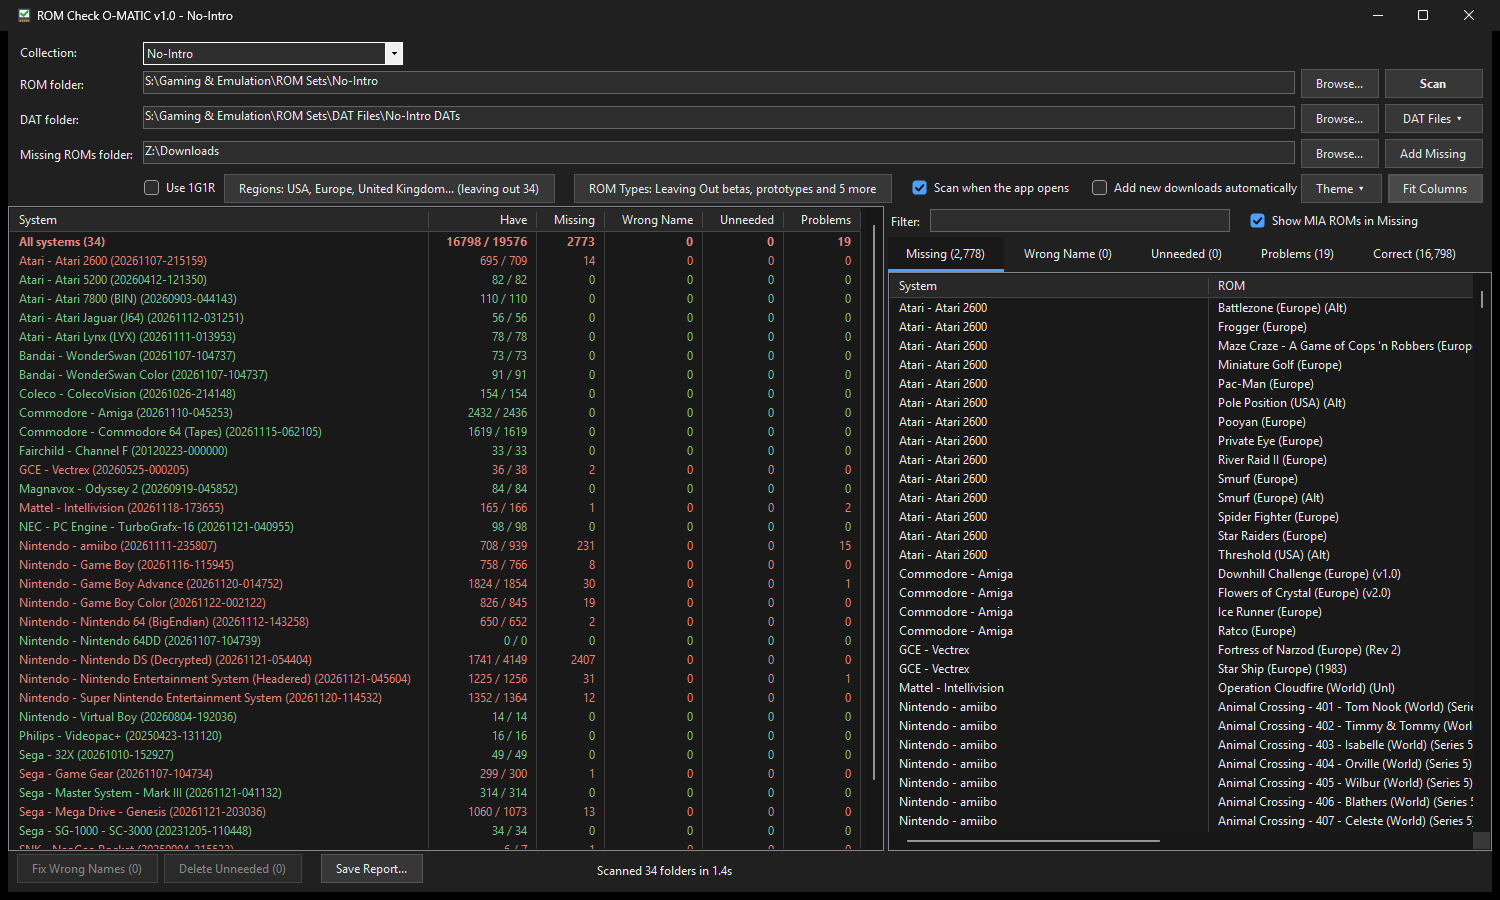
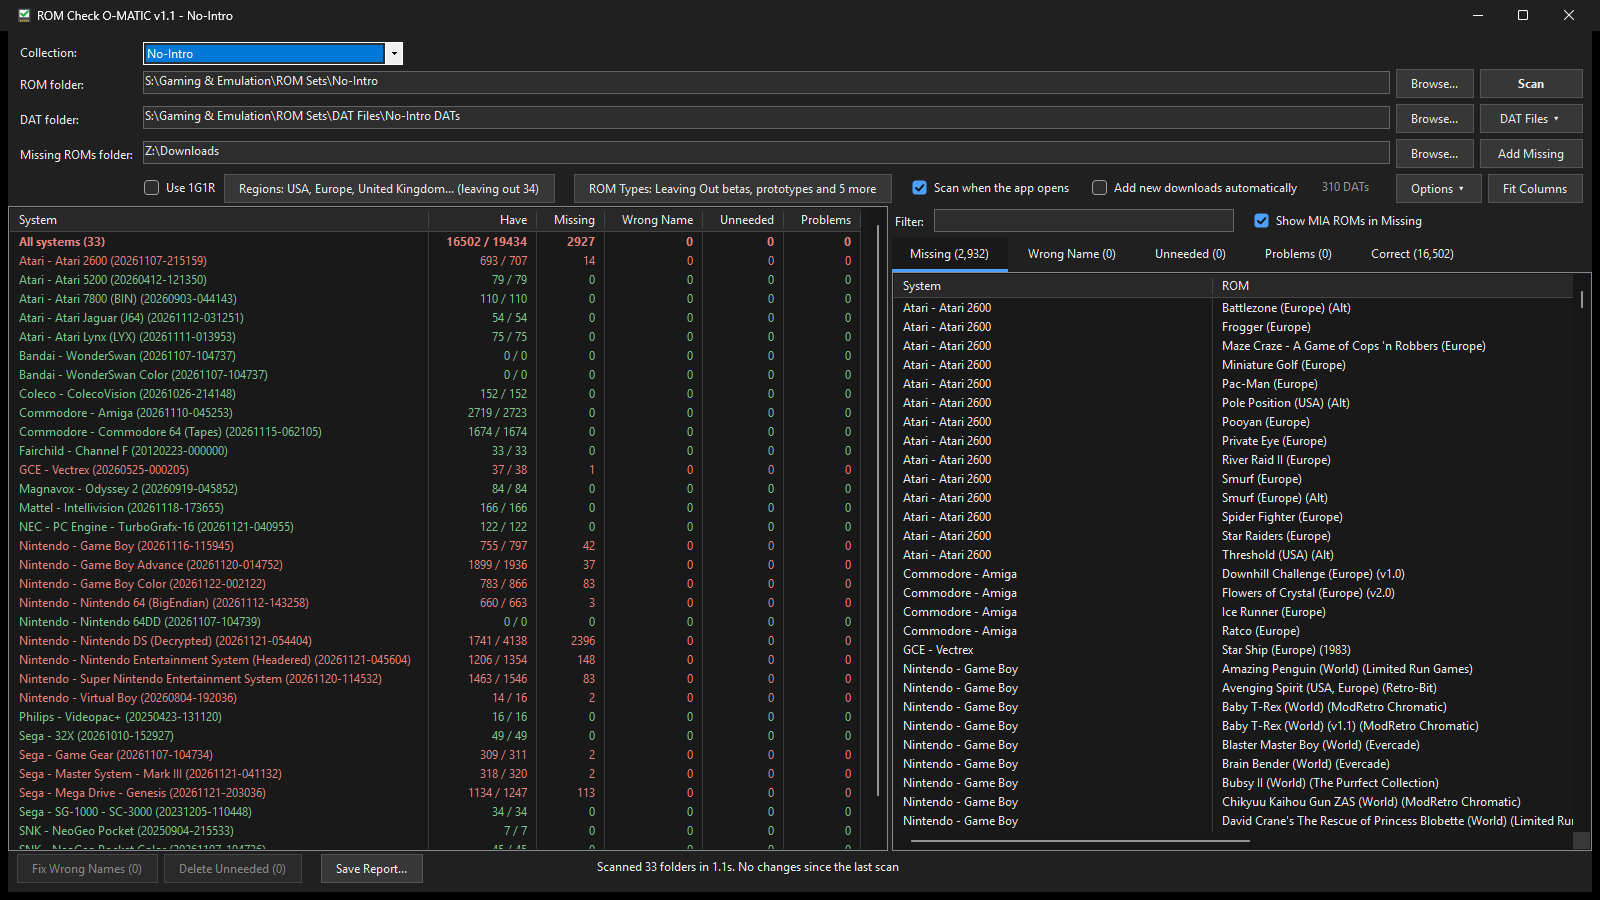
Update screenshots for v1.1; wrap the options row when narrow
The light and dark screenshots now show v1.1 (Options menu, and the
"since the last scan" status). The options row under the folders now wraps
onto another line when the window is narrow, instead of running under the
Options and Fit Columns buttons.

diff --git a/src/MainForm.cs b/src/MainForm.cs
@@ -234,7 +234,8 @@ namespace RomCheckOMatic
             top.Controls.Add(cueBrowse, 2, 4);
             cueLabel.Visible = cueBox.Visible = cueBrowse.Visible = false;   // until the DATs are read
 
-            var options = new FlowLayoutPanel { AutoSize = true, Dock = DockStyle.Fill, WrapContents = false, Margin = new Padding(0) };
+            // Wraps onto a second line when the window is too narrow, rather than running under the buttons at the right.
+            var options = new FlowLayoutPanel { AutoSize = true, AutoSizeMode = AutoSizeMode.GrowAndShrink, Dock = DockStyle.Fill, WrapContents = true, Margin = new Padding(0) };
             oneGameBox = new CheckBox { Text = "Use 1G1R", AutoSize = true, Margin = new Padding(3, 7, 3, 3) };
             oneGameBox.CheckedChanged += (s, e) =>
             {
